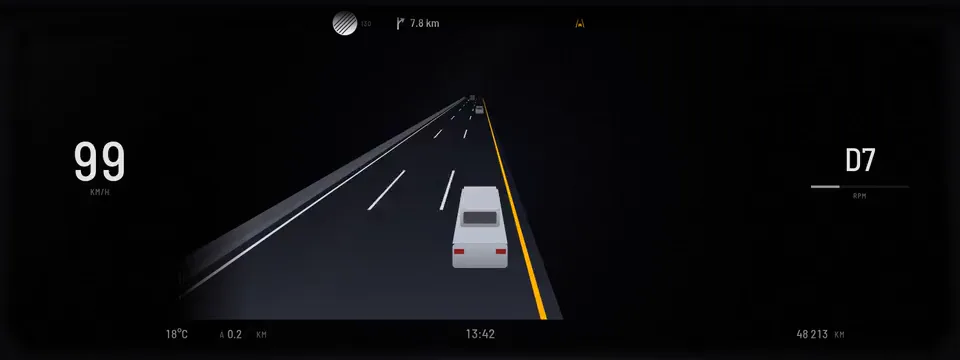
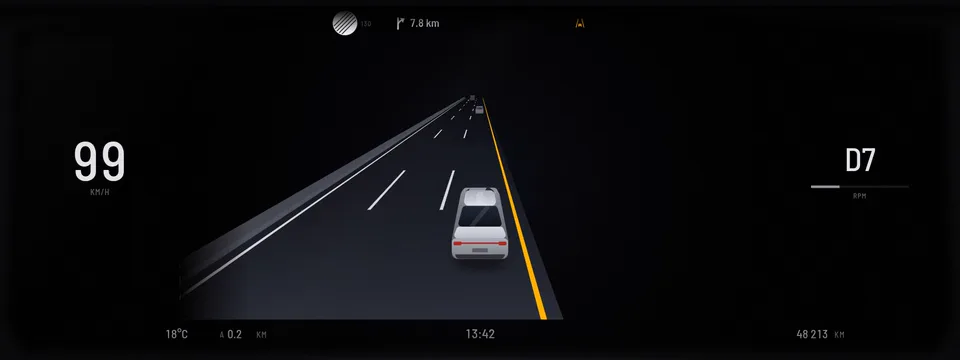
chore(media): regenerate loops, posters, README animation and share image with the new car; docs: project complete
PROGRESS now opens with the acceptance checklist (all items done), owner
to-dos and the one deliberate difference from the brief. WALKTHROUGH lists
the shell, lazy loading, analytics, the own-car model and the recorder.
Clean shots (loops, README, OG) are recorded without the spotlight.

Changed region(s): [[0.4688, 0.5194, 0.5312, 0.7639]]

diff --git a/docs/PROGRESS.md b/docs/PROGRESS.md
@@ -1,8 +1,36 @@
 # Progress
 
-_Last updated: 2026-10-04_
+_Last updated: 2026-10-05_
 
-## Current work
+## Status: complete
+
+Realism v2 and the UX and website phase are finished. The UX brief's acceptance checklist (§14):
+
+| Item                                                                                       | State                                                             |
+| ------------------------------------------------------------------------------------------ | ----------------------------------------------------------------- |
+| Owner approved one of three concepts before implementation                                 | ✅ Concept A, with B's spoke buttons and C's wider cluster        |
+| Opens in Watch, cockpit moving within ~1.5 s, no control panel                             | ✅ 0.25–0.5 s on the production build                             |
+| Header auto-hides in Watch; mode switch updates the URL                                    | ✅                                                                |
+| Glow follows drive mode; premium hood presentation                                         | ✅                                                                |
+| Chapters play, loop, jump, share via URL; captions never overlap the cluster               | ✅ plus the caption spotlight (§5.4)                              |
+| Take the wheel continues from the current world state                                      | ✅ unit and browser tests                                         |
+| Drive: ≤ 8 controls at rest, car-like, contextual groups, More controls, coach once        | ✅                                                                |
+| Engineer: state machines, signals, events, view model, Workshop, performance; How it works | ✅                                                                |
+| Landing sections with Show me and real clips                                               | ✅                                                                |
+| Responsive incl. phone portrait/landscape and the old-browser fallback                     | ✅                                                                |
+| Highlight, full and LinkedIn videos, loops, README media, OG image                         | ✅ `node scripts/make-media.mjs`                                  |
+| Analytics off by default and documented; UX testing kit; video script                      | ✅                                                                |
+| Design rubric on every screen; Lighthouse targets                                          | ✅ desktop 99–100; mobile perf 90–97, a11y/best practices/SEO 100 |
+
+Deliberate difference from the brief: the chapter bar has play/pause and next only (no previous or
+restart buttons), as in the approved concept; ← goes back.
+
+**Owner to do:** About details and the repository URL in `src/app/site.ts`; after deploying, the live
+link in the README and an absolute `og:image` URL; optional analytics via `.env.local`; five test visitors
+with `docs/UX_TESTING.md`. CI (`.github/workflows/ci.yml`) publishes to GitHub Pages from `main` once
+Pages is set to "GitHub Actions".
+
+## History
 
 **Realism v2** (`docs/briefs/realism-v2.md`), approved with these decisions:
 
@@ -25,7 +53,7 @@ _Last updated: 2026-10-04_
 | 6    | Speed-limit recognition / ISA                                                                        | done  |
 | 7    | Lane keeping/centering, hands-off staging, Driver Assistance view                                    | done  |
 | 8    | Collision warning/AEB, blind spot, rear cross traffic                                                | done  |
-| 9    | Start-stop, Auto Hold, gear recommendation, shift lights, diesel DPF/AdBlue                          | done  |
+| 9    | Start-stop, Auto Hold, gear recommendation, shift lights, diesel DPF/exhaust fluid                   | done  |
 | 10   | Warnings catalogue, seatbelt escalation, TPMS, service                                               | done  |
 | 11   | Fatigue, parking sensors + camera, auto high beam, lights/body/wipers                                | done  |
 | 12   | Views (Classic, Navigation, Reduced, Driver Assistance, Sport, Auto view)                            | done  |
@@ -163,20 +191,20 @@ _Last updated: 2026-10-04_
 
 ## UX and website phase (`docs/briefs/` → UX prompt; design in `docs/design/`)
 
-| Step | | State |
-| --- | --- | --- |
-| 0 | Audit, 3 concepts, owner chose A (+ wider cluster, calm chapters, spoke buttons) | done |
-| 1 | Shell: header with Watch/Drive/Engineer, stage (light, hood, feathered display, glow by drive mode, reflection), rolling start at midday, larger cluster text | done |
-| 2 | 3D map (tilted, extruded buildings, labels, glowing route) | done |
-| 3 | Demo Director: 9 chapters (2:36), captions, chapter bar, Space/←/→, `?chapter=`, Take the wheel | done |
-| 4 | Drive dock (wheel with spoke buttons, stalk, lever, pedals, contextual cruise, "?" overlay, coach marks) | done |
-| 5 | Engineer mode (6 tabs, live state diagrams, event timeline, How it works sheet) | done |
-| 6 | Cinematic intro (≤ 4 s, skippable, first visit only) | done |
-| 7 | Landing sections (pitch, highlights, live data path, ADRs, about, footer) | done |
-| 8 | Responsive behaviour and fallbacks (laptop, tablet, phone portrait/landscape, old browsers) | done |
-| 9 | Recording pipeline, clips, README media, OG images | done |
-| 10 | Analytics (off by default), privacy, UX testing kit, self-hosted fonts | done |
-| 11 | Final rubric polish, Lighthouse | done |
+| Step |                                                                                                                                                               | State |
+| ---- | ------------------------------------------------------------------------------------------------------------------------------------------------------------- | ----- |
+| 0    | Audit, 3 concepts, owner chose A (+ wider cluster, calm chapters, spoke buttons)                                                                              | done  |
+| 1    | Shell: header with Watch/Drive/Engineer, stage (light, hood, feathered display, glow by drive mode, reflection), rolling start at midday, larger cluster text | done  |
+| 2    | 3D map (tilted, extruded buildings, labels, glowing route)                                                                                                    | done  |
+| 3    | Demo Director: 9 chapters (2:36), captions, chapter bar, Space/←/→, `?chapter=`, Take the wheel                                                               | done  |
+| 4    | Drive dock (wheel with spoke buttons, stalk, lever, pedals, contextual cruise, "?" overlay, coach marks)                                                      | done  |
+| 5    | Engineer mode (6 tabs, live state diagrams, event timeline, How it works sheet)                                                                               | done  |
+| 6    | Cinematic intro (≤ 4 s, skippable, first visit only)                                                                                                          | done  |
+| 7    | Landing sections (pitch, highlights, live data path, ADRs, about, footer)                                                                                     | done  |
+| 8    | Responsive behaviour and fallbacks (laptop, tablet, phone portrait/landscape, old browsers)                                                                   | done  |
+| 9    | Recording pipeline, clips, README media, OG images                                                                                                            | done  |
+| 10   | Analytics (off by default), privacy, UX testing kit, self-hosted fonts                                                                                        | done  |
+| 11   | Final rubric polish, Lighthouse                                                                                                                               | done  |
 
 - `node scripts/site-shots.mjs docs/design/progress name=query@WxH` screenshots the site and reports
   time-to-moving, fps and dropped frames (`@WxH+s` waits s extra seconds). Step screenshots live in
@@ -203,6 +231,7 @@ _Last updated: 2026-10-04_
      then "Emergency braking", which replaces it at once. After AEB, the driver drops back gently
      (improved-IDM braking limit) instead of braking hard to 24 km/h. Tests: `Director.test.ts`,
      `CollisionAssist.test.ts`.
+
   2. **Clean handover mid-chapter.** Verified in unit and e2e tests: same place and speed, demo
      driver off, no script state left, and cruise stays as it was.
   3. **Muted autoplay.** Fixed: the first click anywhere unlocked audio at full volume although the
@@ -270,10 +299,8 @@ _Last updated: 2026-10-04_
 
 ## Known issues / open questions
 
-
 - Entering Engineer drops about one frame (production build: ~50–90 ms task as React mounts the panel and
   the page lays it out). The canvas is no longer resized on mode changes.
-
 
 - Rare single dropped frame (about 1 in 30 pose runs). Partly explained in step 9: traffic's
   O(n²) leader search cost 0.4 ms per simulation step in the roadworks queue. It now uses a sorted

diff --git a/docs/WALKTHROUGH.md b/docs/WALKTHROUGH.md
@@ -66,11 +66,16 @@ flowchart LR
 | `cluster/renderer/startup.ts`             | Ignition choreography: needle sweep, bulb check, trip summary.                         |
 | `cluster/layouts/classic.ts`              | Layout as data: slots, rects, candidate widgets, telltale positions.                   |
 | `cluster/themes/midnight.ts`              | Every colour, size and effect strength as tokens.                                      |
-| `app/director/`                           | Watch: chapters as data; `Director` fires their events into the live simulator.       |
+| `app/director/`                           | Watch: chapters as data; `Director` fires their events into the live simulator.        |
 | `app/dock/`                               | Drive: stalk, wheel, selector, pedals over `ControlBus`; moving parts animate via rAF. |
-| `app/engineer/`                           | Engineer: live state diagrams, event log, view model, How it works sheet.             |
-| `app/landing/`                            | Sections under the cockpit; copy as data in `content.ts`.                               |
-| `app/controls/ControlBus.ts`              | Any input (key, pointer, pad) → car action with real tap/hold semantics.              |
+| `app/engineer/`                           | Engineer: live state diagrams, event log, view model, How it works sheet.              |
+| `app/landing/`                            | Sections under the cockpit; copy as data in `content.ts`.                              |
+| `app/controls/ControlBus.ts`              | Any input (key, pointer, pad) → car action with real tap/hold semantics.               |
+| `app/shell/`                              | Header, stage (hood, glow, display fit), intro, device classes (phone/tablet/laptop).  |
+| `app/lazy.ts`                             | Off-screen UI loaded on demand (Engineer, doc sheet, dock, More controls).             |
+| `app/analytics.ts`                        | Optional cookieless analytics; off unless configured; DNT/GPC respected.               |
+| `cluster/lanes/egoCar.ts`                 | Our car in the lane view, drawn with the lane camera's projection.                     |
+| `scripts/record-video.mjs`                | Deterministic video capture: fake clock, one frame per screenshot, piped to ffmpeg.    |
 
 ## How to add things
 
